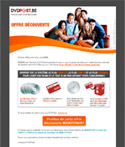
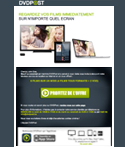
paypal landing

diff --git a/public/stylesheets/sponsorships.css b/public/stylesheets/sponsorships.css
@@ -1,3 +1,7 @@
+body {
+    color: #212A31 !important;
+}
+
 form, fieldset {
   border-style:none;
   margin:0;
@@ -158,19 +162,25 @@ input {
   float: left;
   padding: 0 15px;
   color: white;
-  font-size: 13px;
+  font-size: 18px;
   text-transform: uppercase;
-  border: 1px solid #000000;
+   color: #909498;
+   font-family: 'Open Sans Condensed',sans-serif;
   border-bottom: none;
-  background: url(../images/tab-nav-bg.png) 0 0 repeat-x;
+  background: url(http://private.dvdpost.com/images/tabs-bg.png) 0 0 repeat-x;
   text-decoration: none;
+  text-shadow: none;
 }
 #tool-wrap #tabs li a.current {
-  color: #353535;
-  background-image: url(../images/tab-nav-current-bg.png);
-  cursor: default;
+    background: url("http://private.dvdpost.com/images/tabs-bg.png") 0 -65px transparent !important;
+    color: #212A31;
+	 font-size: 18px;
+	 font-family: 'Open Sans Condensed',sans-serif;
+	 line-height: 32px;
+    padding: 0 30px;
+	display: block;
+    cursor: default;
 }
-
 #tool-wrap .tab-content {
   border: 1px solid #000000;
   padding: 20px 15px;
@@ -195,9 +205,10 @@ input {
   font-size: 12px;
 }
 #tool-wrap .tab-content a {
-  color: #e14337;
-  font-size:16px;
-  font-weight: bold;
+    color: #A3C41B;
+    font-size: 16px;
+    font-weight: bold;
+	text-shadow: none;
 }
 #tool-wrap #tab1 .content {
   float: left;
@@ -214,9 +225,9 @@ input {
   margin-top: 10px;
 }
 #tool-wrap #tab1 #inv-form {
+  background: none repeat scroll 0 0 #C3D1DB;
   display: block;
-  padding: 8px 2px;
-  background: #b7b7b7;
+  padding: 20px 6px 20px 6px;
 }
 #tool-wrap #tab1 #inv-form a, #tool-wrap #tab1 #inv-form input, #tool-wrap #tab1 #inv-form img {
   vertical-align: middle;
@@ -226,13 +237,13 @@ input {
   display: inline;
 }
 #tool-wrap #tab1 #inv-form input {
-  width: 200px;
-  padding: 2px;
-  margin-left: 3px;
-  border: 1px solid #a8acad;
-  background: url(../images/inv-field-bg.gif) 0 0 repeat-x;
-  color: #b7b7b7;
-  font: normal 14px Arial, Helvetica, sans-serif;
+    background: none repeat scroll 0 0 #FFFFFF;
+    border: 1px solid #212A31;
+    color: #212A31;
+    font: 14px Arial,Helvetica,sans-serif;
+    margin-left: 3px;
+    padding: 2px;
+    width: 200px;
 }
 #tool-wrap #tab1 #inv-form input.i-btn {
   width: auto;
@@ -250,8 +261,7 @@ input {
   margin: 0 0 10px;
 }
 #tool-wrap .history table {
-  width: 810px;
-  margin-left: 18px;
+  width: 828px;
   font-size:13px;
 }
 #tool-wrap .history table .col1 {
@@ -277,7 +287,7 @@ input {
   /*padding: 4px;*/
   color: #ffffff;
   font-weight: normal;
-  background: #454545;
+  background: #212A31;
   border-bottom: 8px solid white;
 }
 #tool-wrap .history td {
@@ -485,21 +495,17 @@ input {
   width:112px;
 }
 
-#mail_send
-{
-  background:url("../images/mail_send.png") no-repeat scroll 0 0 transparent !important;
-  border-style:none !important;
-  color:white !important;
-  cursor:pointer;
-  font-weight:bold;
-  height:27px;
-  text-align:center;
-  width:154px !important;
+#mail_send {
+    background: url("http://private.dvdpost.com/stylesheets/../images/gift_button.png") no-repeat scroll 0 0 transparent !important;
+    border-style: none !important;
+    color: white !important;
+    cursor: pointer;
+    font-weight: bold;
+    height: 24px;
+    text-align: center;
+    width: 170px !important;
 }
-#mail_send:hover
-{
-  background:url("../images/mail_send.png") no-repeat scroll 0 -37px transparent !important;
-}
+
 .loader
 {
   background:none repeat scroll 0 0 #EEEEEE;
@@ -649,3 +655,30 @@ input {
 
 
 }
+
+#maincontent .content h2 {
+    font-size: 24px !important;
+    margin: 0px !important;    
+}
+
+
+#maincontent #emailer h2 {
+     font-size: 24px !important;
+    margin: 0px !important;
+	padding-bottom: 10px;  
+}
+
+
+.more_less {
+    background: url("http://private.dvdpost.com/images/plus_moins.png") no-repeat scroll 0 0 transparent;
+    padding-left: 20px;
+}
+
+.more_less a{
+color:#212A31!important;
+font-size:14px!important;
+text-decoration:underline!important;
+
+
+}
+.parrainer {  background: none repeat scroll 0 0 #C3D1DB;}

diff --git a/public/stylesheets/main.css b/public/stylesheets/main.css
@@ -1275,3 +1275,93 @@ height: 20px;
   padding: 0;
   background: none;
 }
+.oters .btns a.louer {
+    background-position: -493px -256px;
+}
+
+.oters .btns a, .oters .btns input {
+    background-image: url(../images/sprite.png)!important;
+    
+}
+
+
+#btns-wrap a#louer {
+    background-position: 0 -305px;
+    float: left;
+    font-size: 17px;
+    height: 57px;
+    line-height: 1;
+    margin-right: 10px;
+    padding: 30px 0 0 63px;
+    width: 121px;
+}
+#btns-wrap a, #btns-wrap input {
+   background-image: url(../images/sprite.png)!important;
+    background-repeat: no-repeat;
+    color: #FFFFFF;
+    display: inline-block;
+    font-weight: bold;
+}
+
+#btns-wrap .payperview a {
+    background-image: none !important;
+    color: #FF6600;
+    margin-top: -10px;
+    text-decoration: underline;
+}
+
+
+
+#mywhishlist a.louer {
+    display: inline-block !important;
+}
+.gallery a.louer {
+    background-position: -456px -32px;
+    margin-left: 4px;
+    padding-left: 29px;
+    width: 69px;
+}
+a.louer {
+   background-image: url(../images/sprite.png)!important;
+    background-position: -352px -160px;
+    background-repeat: no-repeat;
+    color: white;
+    display: block;
+    font-size: 14px;
+    font-weight: bold;
+    height: 23px;
+    line-height: 21px;
+    padding-left: 33px;
+    text-align: left;
+    width: 101px;
+}
+
+
+#mywhishlist a.louer {
+    display: inline-block !important;
+    overflow: hidden;
+}
+a.louer {
+    background-image: url(../images/sprite.png)!important;
+    background-position: -492px -256px;
+    background-repeat: no-repeat;
+    color: white;
+    display: block;
+    font-size: 14px;
+    font-weight: bold;
+    height: 23px;
+    line-height: 21px;
+    padding-left: 33px;
+    text-align: left;
+    width: 101px;
+}
+
+#presentation .prices {
+    background-color: #FF6600;
+    color: #FFFFFF;
+    position: absolute;
+    right: 364px;
+    top: 72px;
+    width: 193px;
+	font-size:16px;
+}

diff --git a/lib/dvdpost_constants.rb b/lib/dvdpost_constants.rb
@@ -475,7 +475,7 @@ module DVDPost
         time = 2880
       end
       
-      url = "http://vod.dvdpost.be:8081/webservice?method=create&filename=#{filename}&lifetime=#{time}&simultIp=1"
+      url = "http://wesecure.alphanetworks.be/webservice?method=create&filename=#{filename}&lifetime=#{time}&simultIp=1"
       data = open(url, :http_basic_authentication => ["dvdpost", "sup3rnov4$$"])
       node = Hpricot(data).search('//create')
       if node.at('status').innerHTML == 'success'
@@ -487,7 +487,7 @@ module DVDPost
 
     def generate_free_token_from_alpha(filename)
       time = 2880
-      url = "http://vod.dvdpost.be:8081/webservice?method=create&filename=#{filename}&lifetime=#{time}&simultIp=1"
+      url = "http://wesecure.alphanetworks.be/webservice?method=create&filename=#{filename}&lifetime=#{time}&simultIp=1"
       data = open(url, :http_basic_authentication => ["dvdpost", "sup3rnov4$$"])
       node = Hpricot(data).search('//create')
       if node.at('status').innerHTML == 'success'
@@ -545,7 +545,7 @@ module DVDPost
     end
     
     def streaming_url
-      "vod.dvdpost.be"
+      "flash.vod.dvdpost.be"
     end
   end
 end

diff --git a/app/controllers/shopping_carts_controller.rb b/app/controllers/shopping_carts_controller.rb
@@ -92,7 +92,7 @@ class ShoppingCartsController < ApplicationController
       		@ogone_language = 'en_US';
       		@template_ogone = 'Template_freetrial2EN.htm'
       end
-      @com= t '.payment_methods.update.payment_update'
+      @com= t '.shopping_carts.paiement'
       internal_com = 'dvdsale'
       @url_back = url_for(:controller => 'payment_methods', :action => :edit, :customer_id => current_customer.to_param, :type => 'credit_card_modification', :only_path => false, :protocol => 'http')
       OgoneCheck.create(:orderid => @order_id, :amount => @price, :customers_id => current_customer.to_param, :context => internal_com, :site => 1)

diff --git a/config/deploy/production.rb b/config/deploy/production.rb
@@ -20,10 +20,14 @@ set :rails_env, "production"
 #############################################################
 
 set :user, "dvdpostapp"
-set :domain, "private.dvdpost.com"
+set :domain,  "217.112.190.177"
+set :domain2, "94.139.62.122"
 set :port, 22012
-server domain, :app, :web
-role :db, domain, :primary => true
+role :web, domain2
+role :app, domain2
+set :port, 22012
+server domain2, :app, :web
+role :db, domain2, :primary => true
 
 #############################################################
 #	Git

diff --git a/config/deploy/pre_production.rb b/config/deploy/pre_production.rb
@@ -20,10 +20,12 @@ set :rails_env, "pre_production"
 #############################################################
 
 set :user, "dvdpostapp"
-set :domain, "beta.dvdpost.com"
+set :domain,  "217.112.190.177"
+set :domain2, "94.139.62.122"
 set :port, 22012
-server domain, :app, :web
-role :db, domain, :primary => true
+role :web, domain, domain2
+role :app, domain, domain2
+role :db, domain2, :primary => true
 
 #############################################################
 #	Git

diff --git a/config/deploy/staging.rb b/config/deploy/staging.rb
@@ -20,8 +20,8 @@ set :rails_env, "staging"
 #############################################################
 
 set :user, "dvdpostapp"
-set :domain, "staging.dvdpost.be"
-set :domain2, '192.168.100.222'
+set :domain,  "217.112.190.177"
+set :domain2, "94.139.62.122"
 set :port, 22012
 role :web, domain, domain2
 role :app, domain, domain2
